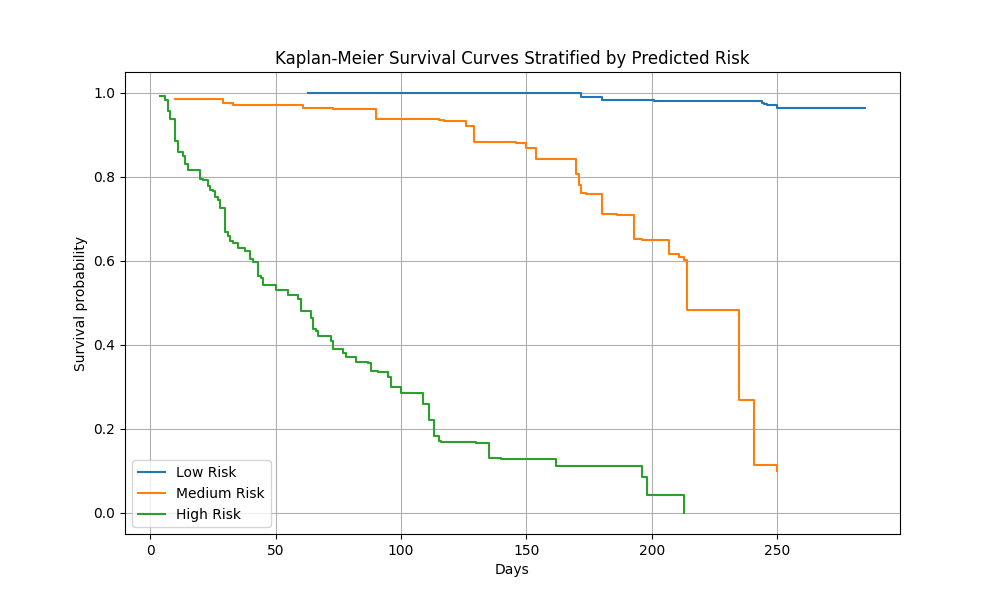
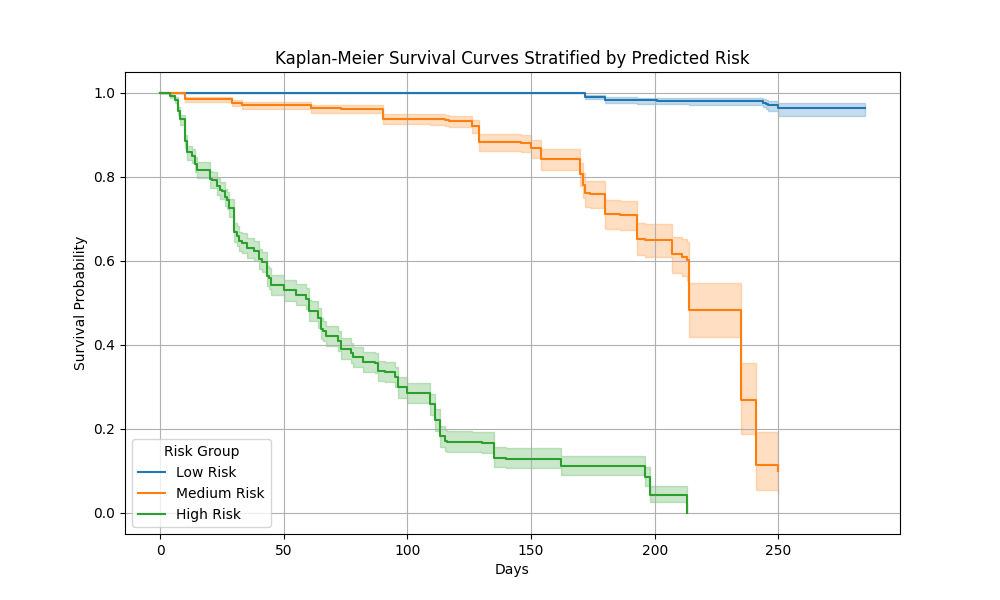
use lifelines instead of scikit-survival

diff --git a/src/heartpredict/backend/survival.py b/src/heartpredict/backend/survival.py
@@ -4,7 +4,7 @@ from heartpredict.backend.io import get_data_frame, get_ml_matrices
 import pandas as pd
 import matplotlib.pyplot as plt
 from pathlib import Path
-from sksurv.nonparametric import kaplan_meier_estimator
+from lifelines import KaplanMeierFitter
 
 
 def create_kaplan_meier_plot(path_to_regressor, out_dir):
@@ -33,19 +33,22 @@ def create_kaplan_meier_plot(path_to_regressor, out_dir):
 
     # Plot Kaplan-Meier curves for each risk group
     plt.figure(figsize=(10, 6))
+    kmf = KaplanMeierFitter()
+
     for group, subset in data.groupby('risk_group', observed=True):
         time = subset[days_column]
         event_observed = subset[death_event_column].astype(bool)
-        km_time, km_prob = kaplan_meier_estimator(event_observed, time)
-        plt.step(km_time, km_prob, where="post", label=group)
+        kmf.fit(durations=time, event_observed=event_observed, label=group)
+        kmf.plot_survival_function()
 
     plt.xlabel("Days")
-    plt.ylabel("Survival probability")
+    plt.ylabel("Survival Probability")
     plt.title("Kaplan-Meier Survival Curves Stratified by Predicted Risk")
-    plt.legend()
+    plt.legend(title="Risk Group")
     plt.grid(True)
 
     output_dir = Path(out_dir)
     output_dir.mkdir(parents=True, exist_ok=True)
     plt.savefig(output_dir / 'kaplan_meier_plot.png')
+    plt.close()
     print(f"Kaplan-Meier plot saved to {output_dir / 'kaplan_meier_plot.png'}")
